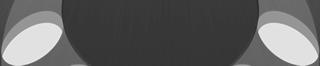
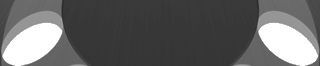
Fixed camera not appearing Made background more transparent

Changed region(s): [[0.0, 0.3333, 0.2188, 1.0], [0.8125, 0.3333, 1.0, 1.0]]

diff --git a/iOS/MexicanWave/MEXWaveFxView.m b/iOS/MexicanWave/MEXWaveFxView.m
@@ -104,7 +104,7 @@
                              [NSNumber numberWithFloat:20], nil];
 
  
-    [[NSNotificationCenter defaultCenter] addObserver:self selector:@selector(gameMode) name:kGameModeDidChange object:nil];
+    [[NSNotificationCenter defaultCenter] addObserver:self selector:@selector(enableGameMode) name:kGameModeDidChange object:nil];
     [self enableGameMode];
 }
 
